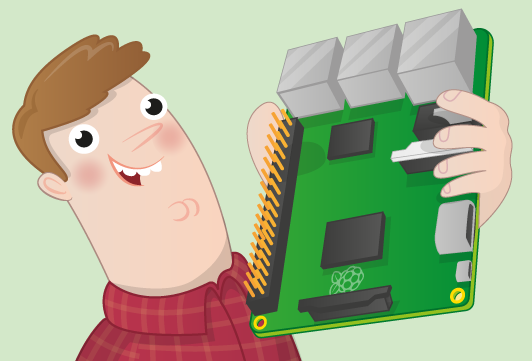
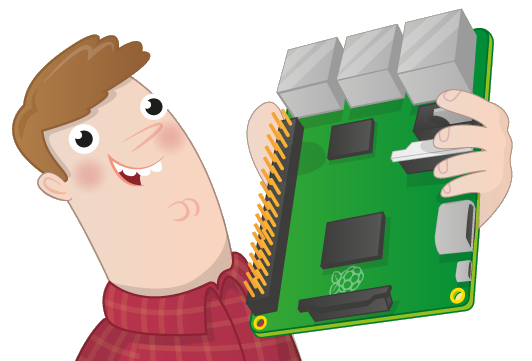
optimized picture size with indexed palette

diff --git a/index.html b/index.html
@@ -36,7 +36,7 @@
 			<p>
 				In Vol. 8 of <a href="https://www.codecentric.de/wissen/softwerker/">Der Softwerker</a> - which I recommend to take a look at if you are a german speaking developer - are some really nice adult-coloring-images (I think thats the name of the recently hyped pictures) of animals. Because my girlfriend loves rhinos I wanted to get the image on page 64. So I downlaoded the pdf and opened the page with Inkscape and the shown settings.
 			</p>
-			<img style="max-width: 974px" src="pictures/inkscape_importDialog.gif" alt="Inkscape import dialog">
+			<img style="max-width: 974px" src="pictures/inkscape_importDialog.png" alt="Inkscape import dialog">
 			<p>
 				I removed the text and already filled color with ease but then I recognized that the rhino itself was no vector image. <b>Why do you do this?! I want nice sharp and scaling vector images!</b>
 			</p>
@@ -69,7 +69,7 @@
 			<p>
 				Luckily I remembered <a href="https://answers.microsoft.com/en-us/windows/forum/windows_7-hardware/windows-7-movesresizes-windows-on-monitor-power/1653aafb-848b-464a-8c69-1a68fbd106aa?auth=1">where to find a solution</a>. The solution was - like in my previous post - modifying something in the registry. I just had to edit the two keys <code>PrimSurfSize.cx</code> and <code>PrimSurfSize.cy</code> <b>... in every shown subfolder!</b>
 			</p>
-			<img style="width: 100%; max-width: 1176px" src="pictures/Screenshot_20170330.gif" alt="Regedit">
+			<img style="width: 100%; max-width: 1176px" src="pictures/Screenshot_20170330.png" alt="Regedit">
 			<p>
 				I hate this database called registry because you never knows where to find a specific setting or how it's related to the installed programs. In Linux you can often predict where to look for the settings if something is going wrong - readable config files in the ~/.config folder.
 			</p>
@@ -91,7 +91,7 @@
 			<p>
 				Damn Windows 10. My File Explorer crashed every time because something in QuickAccessToolbar was broken. That's what I found out by looking through the Event Log.
 			</p>
-			<img style="width: 100%; max-width: 608px" src="pictures/Screenshot_20170326.gif" alt="Windows 10 FileExplorer QuickAccessToolbar">
+			<img style="width: 100%; max-width: 608px" src="pictures/Screenshot_20170326.png" alt="Windows 10 FileExplorer QuickAccessToolbar">
 			<p>
 				After lots of research I found out how to fix the Problem.
 				Deleting the following registry resets the QuickAccessToolbar: <code>HKEY_CURRENT_USER\Software\Microsoft\Windows\CurrentVersion\Explorer\Ribbon\QatItems</code>
